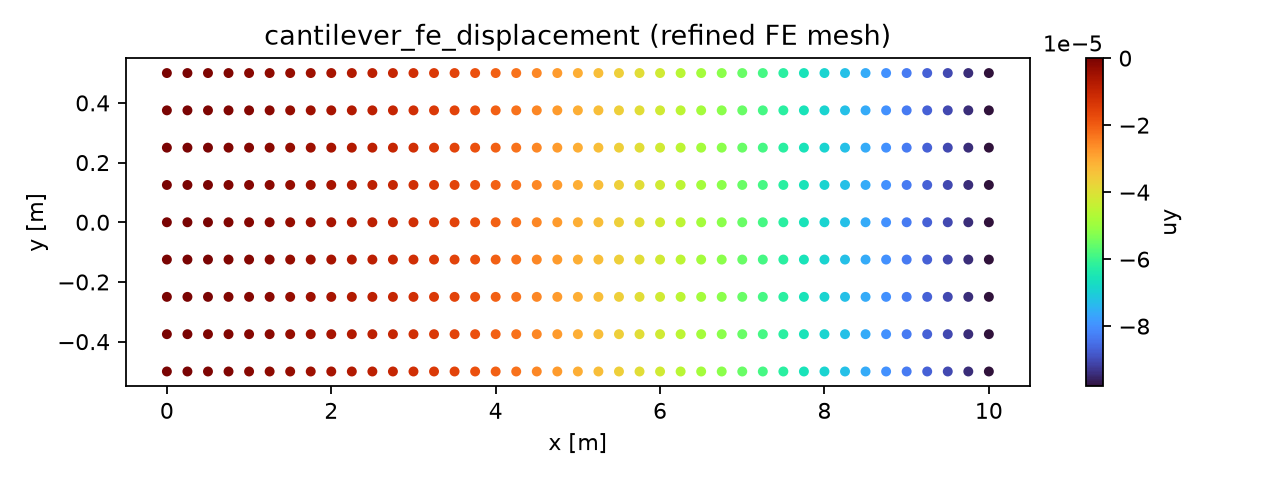
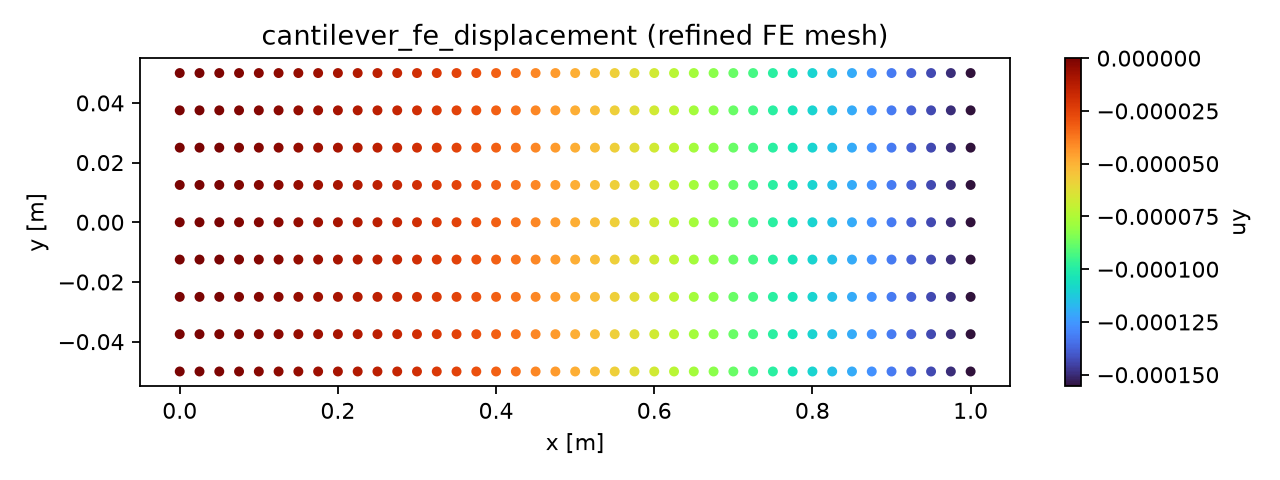
align cantilever FE benchmark with documented SI case

diff --git a/scripts/run_cantilever_fe_benchmark.py b/scripts/run_cantilever_fe_benchmark.py
@@ -5,7 +5,7 @@ import torch
 from tensorfem.continuum import ContinuumModel, rectangular_q4_mesh, solve_continuum
 
 def solve(nx,ny):
-    L,H,T,E,P=10.,1.,.2,200e9,-1000.; nodes,elements=rectangular_q4_mesh(L,H,nx,ny)
+    L,H,T,E,P=1.,.1,.012,210e9,-100.; nodes,elements=rectangular_q4_mesh(L,H,nx,ny)
     forces=torch.zeros(2*len(nodes),dtype=torch.float64); right=torch.where(torch.isclose(nodes[:,0],torch.tensor(L,dtype=nodes.dtype)))[0]
     forces[2*right+1]=P/ny; forces[2*right[[0,-1]]+1]*=.5
     left=torch.where(nodes[:,0]==0)[0]; fixed=torch.stack((2*left,2*left+1),1).reshape(-1)
